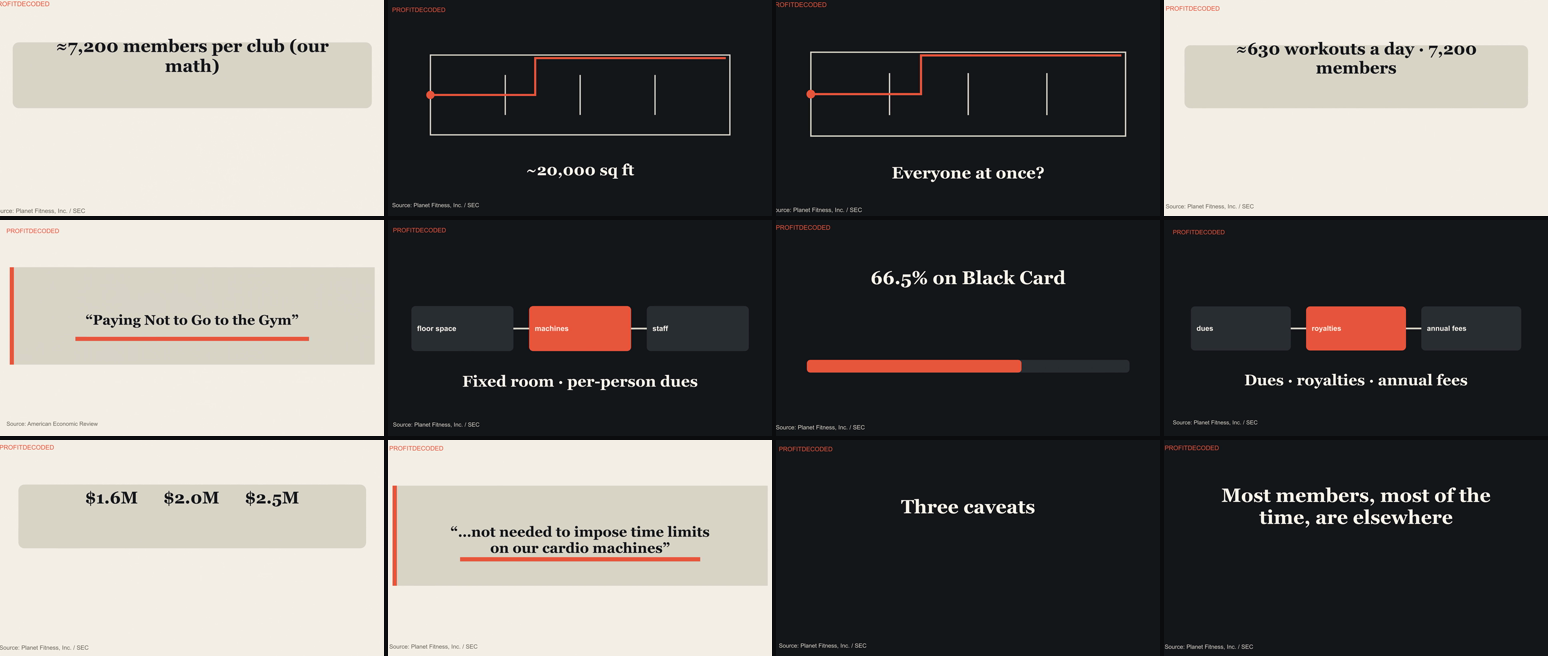
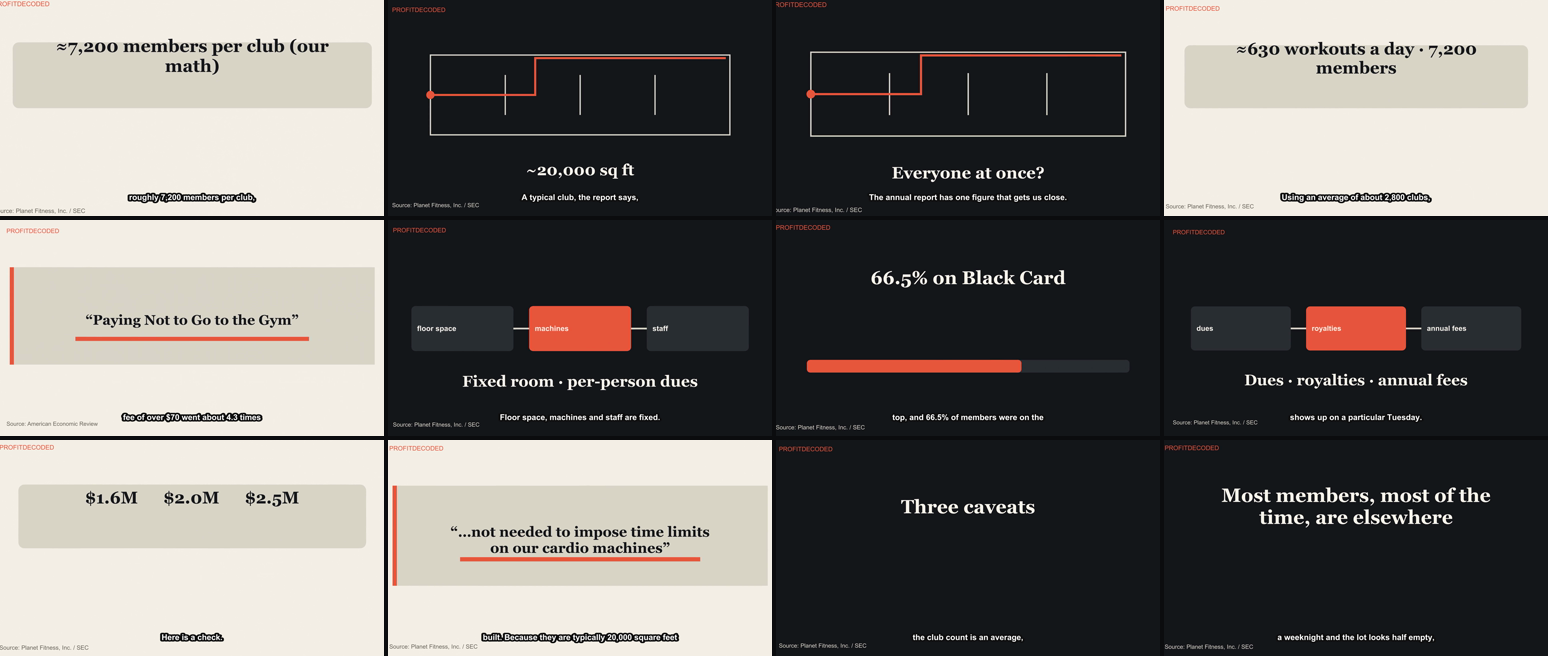
feat(profitdecoded): burned-in captions + SRT, opt-in weekday schedule, competitor-intel workflow

diff --git a/scripts/profitdecoded/render.js b/scripts/profitdecoded/render.js
@@ -12,6 +12,7 @@ const root = path.resolve(__dirname, "..", "..");
 const brand = JSON.parse(fs.readFileSync(path.join(root, "channels/profitdecoded/brand.json"), "utf8")).colors;
 const PV = require("./plan-visuals");
 const T = require(path.join(root, "core/profitdecoded/text"));
+const Cap = require(path.join(root, "core/profitdecoded/captions"));
 
 const FONT_SERIF = ["/System/Library/Fonts/Supplemental/Georgia Bold.ttf", "/usr/share/fonts/truetype/dejavu/DejaVuSerif-Bold.ttf", "/usr/share/fonts/truetype/liberation/LiberationSerif-Bold.ttf"].find((f) => fs.existsSync(f));
 const FONT_SANS = ["/System/Library/Fonts/Supplemental/Arial.ttf", "/System/Library/Fonts/Supplemental/Arial Bold.ttf", "/usr/share/fonts/truetype/dejavu/DejaVuSans.ttf"].find((f) => fs.existsSync(f));
@@ -137,6 +138,17 @@ function main() {
   fs.writeFileSync(path.join(work, "list.txt"), segs.map((f) => `file '${f}'`).join("\n"));
   const video = path.join(out, "video.mp4");
   run("ffmpeg", ["-v", "error", "-y", "-f", "concat", "-safe", "0", "-i", path.join(work, "list.txt"), "-i", audio, "-map", "0:v", "-map", "1:a", "-c:v", "copy", "-c:a", "aac", "-b:a", "192k", "-shortest", "-movflags", "+faststart", video]);
+  // ---------- captions: sidecar SRT always; burned in when ffmpeg has libass ----------
+  const cues = Cap.build(bundle.beats, { short });
+  const srt = path.join(out, "captions.srt"); fs.writeFileSync(srt, Cap.toSrt(cues));
+  let captionsBurned = false;
+  if (cues.length && spawnSync("ffmpeg", ["-hide_banner", "-filters"], { encoding: "utf8" }).stdout.includes("subtitles")) {
+    const capped = path.join(out, "video-captioned.mp4");
+    // libass default PlayRes is 384x288, so sizes below are in that space (short: x6.7, long: x3.75 on screen)
+    const style = `FontName=Arial,Bold=1,FontSize=${short ? 9 : 12},PrimaryColour=&H00FFFFFF,OutlineColour=&H00101010,BorderStyle=1,Outline=2,Shadow=0,Alignment=2,MarginV=${short ? 50 : 19},MarginL=${short ? 14 : 64},MarginR=${short ? 14 : 64}`;
+    const r = spawnSync("ffmpeg", ["-v", "error", "-y", "-i", video, "-vf", `subtitles='${srt.replace(/'/g, "\\'")}':force_style='${style}'`, "-c:v", "libx264", "-crf", "17", "-preset", "medium", "-c:a", "copy", "-movflags", "+faststart", capped], { encoding: "utf8" });
+    if (r.status === 0 && fs.existsSync(capped)) { fs.renameSync(capped, video); captionsBurned = true; } else console.error("caption burn-in skipped:", (r.stderr || "").split("\n").slice(-3).join(" | "));
+  }
   // ---------- render QA: observed facts only ----------
   const probe = JSON.parse(execFileSync("ffprobe", ["-v", "error", "-print_format", "json", "-show_format", "-show_streams", video], { encoding: "utf8" }));
   const v = probe.streams.find((s) => s.codec_type === "video"), au = probe.streams.find((s) => s.codec_type === "audio");
@@ -147,7 +159,8 @@ function main() {
     file: "out/video.mp4", width: v.width, height: v.height, fps: v.r_frame_rate, durationSec: +vd.toFixed(2), audioDurationSec: +audioDur.toFixed(2), hasAudio: !!au,
     durationMatchesAudio: Math.abs(vd - audioDur) < 1.6, decodeErrors: decodeErr ? decodeErr.split("\n").length : 0, blackFrameSegments: black,
     audioBroken: !au || decodeErr.includes("audio"), artifacts: !!decodeErr || black > 0, textReadable: true, observedAt: new Date().toISOString(), tool: "scripts/profitdecoded/render.js",
-    limits: "static brand-system graphics with push/pan motion; no captions burned in; not a substitute for human review",
+    captions: { file: "out/captions.srt", cues: cues.length, burnedIn: captionsBurned, timing: "estimated within each beat" },
+    limits: "static brand-system graphics with push/pan motion; not a substitute for human review",
   };
   bundle.render = render; fs.writeFileSync(bundlePath, JSON.stringify(bundle, null, 2) + "\n");
   // contact sheet from the real video

diff --git a/core/profitdecoded/captions.js b/core/profitdecoded/captions.js
@@ -1,0 +1,29 @@
+"use strict";
+// Caption builder: splits each narration beat into short on-screen phrases and
+// times them proportionally to word count inside the beat's observed window.
+// Timing is therefore an ESTIMATE within a beat (beat bounds come from the audio).
+
+function phrases(text, maxWords) {
+  const words = String(text || "").replace(/\s+/g, " ").trim().split(" ").filter(Boolean);
+  const out = []; let cur = [];
+  for (const w of words) {
+    cur.push(w);
+    const end = /[.!?;:,]$/.test(w);
+    if (cur.length >= maxWords || (end && cur.length >= Math.ceil(maxWords / 2))) { out.push(cur.join(" ")); cur = []; }
+  }
+  if (cur.length) { if (out.length && cur.length < 3) out[out.length - 1] += " " + cur.join(" "); else out.push(cur.join(" ")); }
+  return out;
+}
+function build(beats, { short = false } = {}) {
+  const cues = []; const maxWords = short ? 5 : 8;
+  for (const b of beats || []) {
+    if (b.start == null || b.end == null || !(b.end > b.start)) continue;
+    const ph = phrases(b.text, maxWords); const total = ph.reduce((n, p) => n + p.split(" ").length, 0) || 1;
+    let t = b.start;
+    for (const p of ph) { const d = (b.end - b.start) * p.split(" ").length / total; cues.push({ start: +t.toFixed(3), end: +(t + d).toFixed(3), text: p }); t += d; }
+  }
+  return cues;
+}
+const ts = (s) => { const ms = Math.round(s * 1000); const p = (n, l = 2) => String(n).padStart(l, "0"); return `${p(Math.floor(ms / 3600000))}:${p(Math.floor(ms / 60000) % 60)}:${p(Math.floor(ms / 1000) % 60)},${p(ms % 1000, 3)}`; };
+function toSrt(cues) { return cues.map((c, i) => `${i + 1}\n${ts(c.start)} --> ${ts(c.end)}\n${c.text}\n`).join("\n"); }
+module.exports = { phrases, build, toSrt };

diff --git a/tests/js/profitdecoded-captions.test.js b/tests/js/profitdecoded-captions.test.js
@@ -1,0 +1,14 @@
+"use strict";
+const test = require("node:test"); const assert = require("node:assert");
+const C = require("../../core/profitdecoded/captions");
+test("captions: phrases stay short and keep every word", () => {
+  const t = "Costco did not make most of its profit in the aisles. Of $10.4 billion in operating income, about half came from one line.";
+  const p = C.phrases(t, 5); assert.ok(p.every((x) => x.split(" ").length <= 8));
+  assert.strictEqual(p.join(" "), t);
+});
+test("captions: cues stay inside the beat and are ordered", () => {
+  const cues = C.build([{ text: "one two three four five six seven eight nine ten", start: 1, end: 6 }, { text: "no timing" }], { short: true });
+  assert.ok(cues.length >= 2); assert.strictEqual(cues[0].start, 1); assert.ok(Math.abs(cues[cues.length - 1].end - 6) < 0.01);
+  for (let i = 1; i < cues.length; i += 1) assert.ok(cues[i].start >= cues[i - 1].end - 0.002);
+});
+test("captions: SRT format", () => { assert.match(C.toSrt([{ start: 0.5, end: 2.25, text: "hi" }]), /1\n00:00:00,500 --> 00:00:02,250\nhi/); });

diff --git a/docs/PROFITDECODED.md b/docs/PROFITDECODED.md
@@ -107,3 +107,9 @@ Spend (Anthropic): usage is accumulated per run and estimated from list prices (
 * The renderer produces clean typographic/data graphics with simple motion; it is a solid base, not yet the full motion-graphics look (animated charts, real footage). Local render requires a repaired ffmpeg (`sudo xcodebuild -license accept && brew reinstall ffmpeg`) or the CI workflow.
 * Voice defaults to edge-tts (fallback) until a premium key is configured. Measured cadence/loudness are real; "sounds human" needs a person's ear.
 * Competitor-transcript similarity needs transcripts; until supplied it is flagged unverified.
+
+## Captions, schedule and competitor workflow
+
+- `render.js` now writes `out/captions.srt` (phrases timed proportionally inside each narration beat, so timing within a beat is an estimate) and burns the captions into `out/video.mp4` when ffmpeg has libass. The result is recorded in `bundle.render.captions`.
+- `profitdecoded-produce.yml` has a weekday cron (11:50 UTC) that is **off** until the repository variable `PD_AUTO_SCHEDULE` is `true`. Scheduled runs produce one Short as a dry run; nothing is uploaded.
+- `profitdecoded-competitors.yml` (manual) collects live competitor/outlier data with the read-only `PD_YT_API_KEY` secret and uploads the snapshot and breakout feed as an artifact. Without the secret it fails with a clear message and competitive data stays UNKNOWN.
